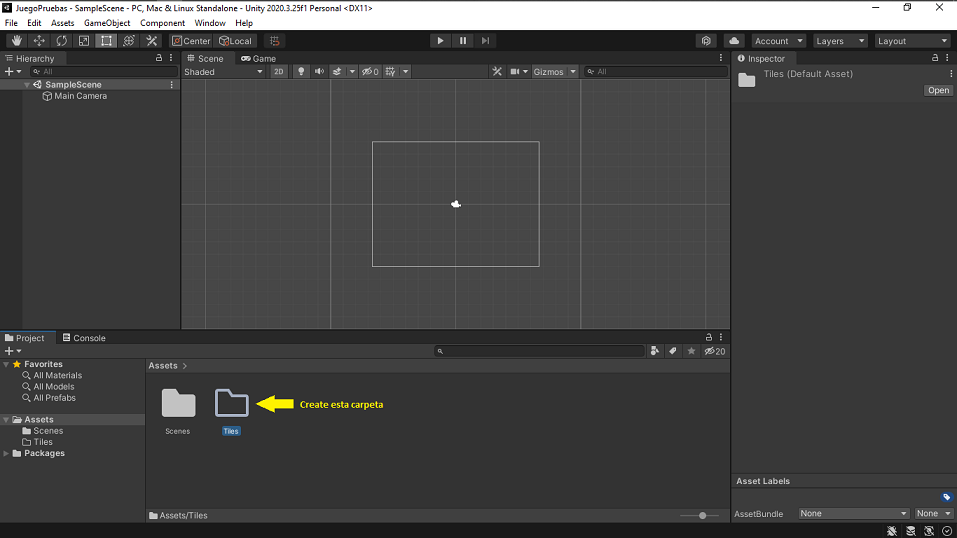
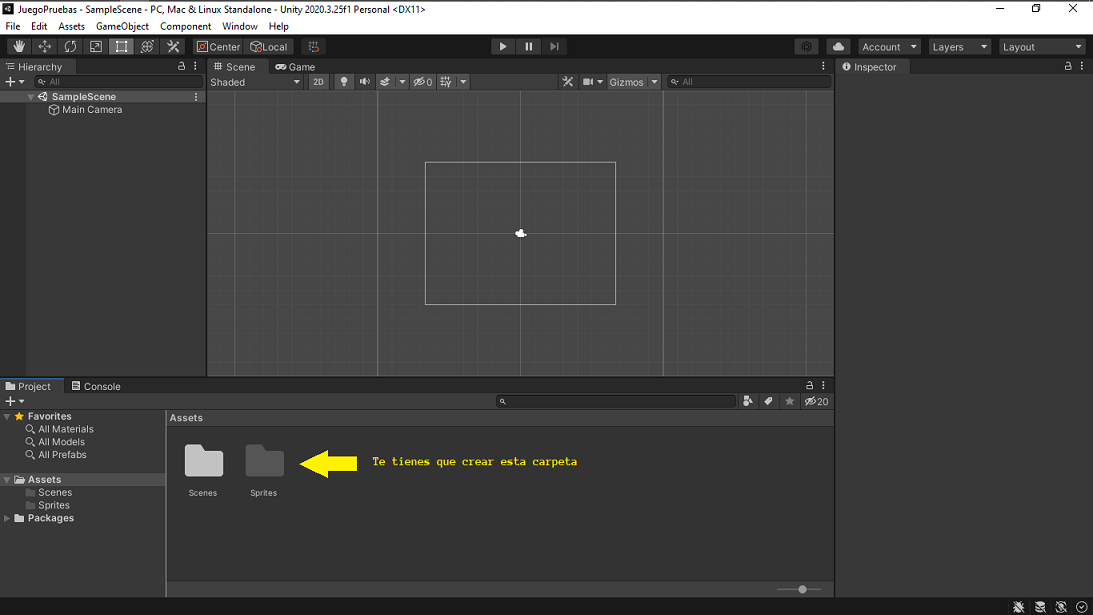
Update Files

diff --git a/docs/cap12.md b/docs/cap12.md
@@ -19,6 +19,16 @@ Vamos a abrir nuestro Unity Hub y a crear un proyecto al que llamaremos "_JuegoP
 
 ![Unity Hub Tutorial](../img/11_UnityHubTutorial.png)
 
-Seguidamente, cuando se nos abra Unity, crearemos la siguiente carpeta.
+Seguidamente, cuando se nos abra Unity, crearemos la siguiente carpeta, a la que llamares `Sprites`.
 
 ![Unity Editor](../img/11_UnityEditor.png)
+
+En esa carpeta vas a poner el archivo que te has descargado antes. Bien lo puedes hacer arrastrando y soltando sobre la carpeta en Unity o bien, puedes importarlo.
+
+Para importarlo simplemente ponte encima de la carpeta y haz click derecho con el ratón y se te abriar un menú. Dale a la opción que te pone `Import New Asset`, se te abrirá un cuadro de dialogo para que busques donde hayas puesto el archivo descargado, lo buscas, le das al botón que pone `Import` y listo. Yo mi recomendación es que lo arrastres a la carpeta, pero bueno, también puedes hacerlo así.
+
+Pues bien, ya una vez que tenemos nuestro archivo con los `tiles`, lo siguiente que necesitamos es convertirlo para poderlo usar. Así que, vamos al lío.
+
+1 - Nos vamos al panel `Proyect` y allí nos vamos dentro de la carpeta `Sprites`, hacemos un click encima del archivo y comprobamos en el panel `Inspector` que tiene la propiedad `Texture Type` como `Sprite (2D and UI)`.
+
+![Inspector Texture Type](../img/11_TextureType.png)
